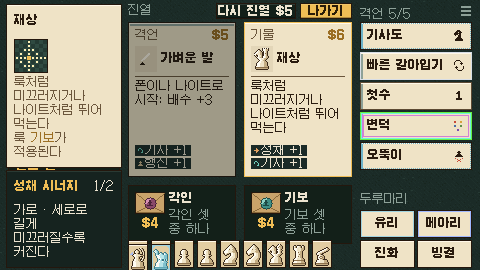
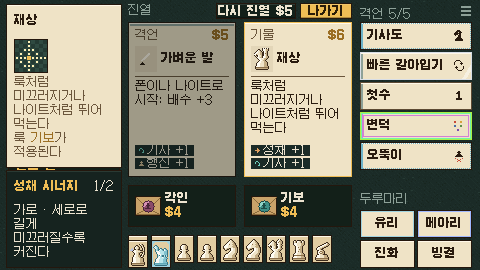
레이아웃 규약에 상점 · 금빛 꾸러미를 맞춘 방법과 남은 보류(카드 넷인 금빛 꾸러미)를 적고 스크린샷을 새로 찍었다 — 사람이 「글만 줄이기」를 골라서
layout.md 8장(줄인 글 · 꾸러미 칸 · 판본 머릿말 · 영어 13개 · 남은 보류와 고를 것 셋), 부품 표(꾸러미 칸 · 시너지 칩 가로 여백). CLAUDE.md 진행 상태에 글 상자 hug와 테스트 279. docs/shots/spacing after-*를 새로 찍고 상점 꾸러미 가리킴 · 금빛 꾸러미(한국어 · 영어)를 더했다.

diff --git a/docs/design-notes/layout.md b/docs/design-notes/layout.md
@@ -65,7 +65,7 @@ x   8 ─ 120 │ 128 ────────────── 352 │ 360 ─
 - 한 줄 칸(격언 칸 · 두루마리 칸 · 도감 칸)은 제목 줄 대신 본문 줄: 28 = 7 + 14 + 7.
 - 한 줄의 카드는 가장 긴 카드의 높이로 맞추고, 칩 줄은 카드 아랫변에 붙인다(칩이 한 줄로 맞는다). 효과 글은 「…」로 자르지 않는다.
 - 이름 한 줄 자리(격언 칸 · 도감 칸 · 왼쪽 칸 정석 이름 · 좁은 두루마리 칸)는 `fitText`(굵게 → 보통 → 「…」). 효과 글은 이 자리에 쓰지 않는다.
-- 토큰이 아닌 칸 크기: 시너지 칩 11(줄 13), 왼쪽 칸 시너지 칩 13(줄 15), 물건 카드 그림 22 × 26, 세로로 잇는 같은 칸 사이 2(`LIST_GAP`), 값 × 배수 칸 22, 손 36.
+- 토큰이 아닌 칸 크기: 시너지 칩 11(줄 13), 왼쪽 칸 시너지 칩 13(줄 15), 물건 카드 그림 22 × 26, 칩 안 가로 여백 3(`CHIP_PAD`), 세로로 잇는 같은 칸 사이 2(`LIST_GAP`), 값 × 배수 칸 22, 손 36.
 
 ## 3. 글자 크기 단계
 글꼴은 Galmuri11 12px 하나(도트라 줄일 수 없다). 단계는 크기(1배 · 2배) × 굵기 × 빛깔로만 나눈다.
@@ -88,8 +88,8 @@ x   8 ─ 120 │ 128 ────────────── 352 │ 360 ─
 | **관 선택 카드** `select.js` | 폭 112, 지금 대국은 금빛(명인은 붉은) 두 겹 테 | 대국 종류(제목 줄) → 묶음 틈 → 목표 · 이기면(이름표 · 수치, 안 들어가면 수치를 다음 줄) → 묶음 틈(가로줄) → 명인(초상 36 옆 이름 → 묶음 안 틈 → 규칙 글) 또는 「건너뛰면」 → 받는 것 → 묶음 틈 → 단추 줄 |
 | **격언 칸** | 폭 112 · 높이 28 · 왼쪽 등급 띠 | 이름 한 줄(아이콘은 오른쪽 여백 안). 효과 · 판본 · 잠듦은 가리키면 왼쪽 칸 설명(잠들면 붉은 줄) |
 | **두루마리 칸** | 한 줄에 하나(두 칸) · 두 칸씩(셋 이상), 높이 28 | 넓은 칸은 그림 + 이름, 좁은 칸은 이름만. 효과는 가리키면 |
-| **꾸러미 칸**(상점) | 폭 108 | 왼쪽 봉투(30 × 22) → 값, 오른쪽 이름 → 묶음 안 틈 → 「무엇 셋 중 하나」 |
-| **시너지 칩** | 높이 11 · 어두운 바탕 · 문양 + 「기사 +1」 | 카드는 아랫변 왼쪽. 왼쪽 칸 시너지 줄은 세로로 한 칸에 하나(「기사 5/6」) |
+| **꾸러미 칸**(상점) | 폭 108(셋이면 72, 봉투 없이) | 왼쪽 봉투(26 × 20), 오른쪽 이름 → 값. 「무엇 셋 중 하나」는 가리키면 |
+| **시너지 칩** | 높이 11(띠 · 왼쪽 칸 줄은 13) · 어두운 바탕 · 안 가로 여백 3(`CHIP_PAD`), 폭은 글에 맞춘다 | 문양 + 「기사 +1」. 카드는 아랫변 왼쪽. 대국 오른쪽 띠는 두 줄까지, 못 놓은 것은 「+N」. 왼쪽 칸 시너지 줄은 세로로 한 칸에 하나(「기사 5/6」) |
 | **단추** `button()` | 주(금빛) · 보조(어두운) · 위험(붉은) 셋. 높이 18/16. 누르면 1px 내려앉는다 | 글 가운데 |
 | **판넬** `panel()` | 어두운 바탕 · 짙은 테 · 윗변 빛 · 아랫변 그늘 | 안 여백 `PAD_BOX` 안에 줄들 |
 | **말풍선** `tooltip` | 카드 빛깔 바탕 · 짙은 테. 판 틀은 폭 116, 판 밖 틀은 폭 176 | 제목(제목 줄, 길면 줄바꿈) → 묶음 틈 → [행마 그림 → 묶음 안 틈] → 줄들 → 묶음 틈 → 칩 줄. 폭이 넉넉하면(150 이상) 그림은 본문 왼쪽 |
@@ -158,19 +158,18 @@ x   8 ─ 120 │ 128 ────────────── 352 │ 360 ─
 - 겹침에서 빼는 것: 다른 상자 위에 **뜨는** 것(말풍선 · 낱말 상자 · 처음 안내 · 먹으면 판넬 · 차림표 · 끄는 격언 칸), 덮개(멈춤 · 설정) 아래 층. 재지 않는 것: 연출(떠오르는 수 · 흘러가는 곱 · 알림 · 뒤집히는 카드).
 - `test/layout.test.js`가 연기 시험이 그리지 않는 내용까지 잰다: 모든 정석 · 1~8관 명인 · 수업 할 일 글 · 기물 · 기보 · 각인 꾸러미와 새기기 미리 보기, 대국 왼쪽 · 오른쪽 칸 쌓기(한국어 · 영어).
 
-어기면 연기 시험이 실패한다(「보류」의 화면은 따로 센다).
+어기면 연기 시험이 실패한다(「보류」의 화면 — 카드가 넷인 금빛 꾸러미 — 는 따로 센다).
 
-## 8. 보류 — 상점 · 금빛 꾸러미
-후보 2(여백 8 · 7, 줄 14 · 18, 틈 3 · 8)로 내용에 맞추면 이 둘은 480 × 270에 다 들어가지 않는다. 글을 줄이거나 가리켰을 때로 옮겨야만 들어가므로 사람이 고를 때까지 두었다(연기 시험 · 스크린샷 도구는 「보류」로 따로 센다). 지금은 주머니 · 격언 칸을 화면 아래에 붙여 두어(위 칸과 겹친다) 판은 이어서 둘 수 있다.
+## 8. 상점 · 금빛 꾸러미 — 글을 줄여 맞췄다(2026-09-28)
+후보 2로 hug하면 상점 · 금빛 꾸러미가 480 × 270에 들어가지 않았다(진열 카드 한국어 최대 170 · 영어 219, 쓸 수 있는 높이 202). 사람이 「글만 줄이기」(조작은 그대로)를 골랐다.
+- **명국 조각 카드 효과는 한 줄**: 「조각 셋이면 전설」(영어 「Three make a legend」). 전설의 효과 · 이야기는 가리키면 왼쪽 칸 설명에.
+- **꾸러미 칸은 이름 · 값만**(봉투 옆 두 줄, 높이 42). 「○○ 셋 중 하나」는 가리키면 왼쪽 칸 설명에. 금빛 꾸러미가 붙어 칸이 셋이면 폭 72에 봉투 없이 이름 → 값.
+- **판본 격언 카드**: 머릿말이 판본 이름(「무지개 격언」, 값 옆에 안 들어가면 「무지개」 — 금빛), 효과 글 끝 줄은 판본 효과만(「배수 ×1.5」). 판본 이름 줄이 따로 없어 한 줄이 준다.
+- **영어 효과 글 13개를 줄였다**(en 사전만, 한국어는 그대로): 대관식 · 끝줄의 꿈 · 외통 사냥꾼 · 킹의 목 · 대국의 기억 · 그림자 읽기 · 퀸 사냥 · 빈 판 · 승급의 길 · 빠른 승급 · 대주교 · 메뚜기 · 유령 행마.
+- 결과: 진열 카드는 한국어 · 영어 모두 ≤ 160(TOP 22 → 카드 → 8 → 꾸러미 42 → 8 → 주머니 28 ≤ 268), 금빛 꾸러미(카드 셋, 폭 108)는 ≤ 156 — `test/layout.test.js`가 모든 물건으로 잰다.
 
-- **상점** 가운데 칸(224 × 246): 위 띠(다시 진열 · 나가기) 아래로 진열 카드 → 꾸러미 칸 → 주머니 한 줄(28). 진열 카드 + 꾸러미 칸에 쓸 수 있는 높이는 268 − 22 − 8 − 8 − 28 = **202**.
-  - 진열 카드(폭 108) 높이: 한국어 가운데 121 · 90% 142 · 가장 긴 것 170(판본 격언), 영어 가운데 138 · 90% 155 · 가장 긴 것 219(명국 조각 「조각 셋이면 전설: …」 8줄 + 종류 두 줄). 꾸러미 칸: 한국어 59, 영어 73~87(「One of three edition maxims」 3줄).
-  - 두 카드 중 긴 쪽 + 꾸러미 칸이 202를 넘으면 넘친다 — 한국어도 자주, 영어는 거의 늘.
-- **금빛 꾸러미**: 카드 셋 → 건너뛰기 · 격언 칸 두 줄(28 × 2)까지 268 안에 들어가려면 카드 ≤ 137. 판본 격언 카드는 한국어 가운데 ≈ 155, 영어 205 안팎. 명국 조각이 붙어 카드가 넷(폭 83)이면 영어 265.
-
-고를 것(권하는 순서, 수치는 명국 조각을 뺀 카드 한 장이 들어가는 몫):
-1. **글을 줄인다**: 진열 · 꾸러미 카드의 명국 조각 효과를 한 줄(「전설의 조각」, 전설 효과는 가리키면)로, 꾸러미 칸의 「셋 중 하나」를 가리키면으로(카드에 효과를 늘 적는 규칙의 예외 둘). 꾸러미 칸이 한 줄(28)이 되어 진열 카드 ≤ 174 — 한국어 100%, 영어 88%.
-2. **주머니를 누를 때만 펼친다**(왼쪽 칸 「주머니」 줄 · 두루마리를 쓸 때 가운데 아래에 펼침): 조작이 바뀐다. 진열 카드 + 꾸러미 칸 ≤ 230 — 한국어 100%, 영어 31%.
-3. **1 + 2 함께**: 진열 카드 ≤ 210 — 한국어 · 영어 100%.
-4. **금빛 꾸러미의 격언 칸은 칸이 찼을 때만**(격언을 고르면 팔 격언을 고르는 차림표): 조작이 바뀐다. 카드 넷(영어 265)은 1과 함께여야 들어간다.
-5. 글 간격을 상점 · 꾸러미에서만 줄이기 — 「이름마다 한 값」을 깬다(권하지 않는다).
+### 보류 — 카드가 넷인 금빛 꾸러미
+명국 조각이 붙어 카드가 넷(폭 83)이면 판본 격언 카드가 한국어 최대 194 · 영어 230으로, 건너뛰기 줄 · 격언 칸 두 줄까지 들어갈 한도 159를 넘는다(판본 격언 177장 중 한국어 72 · 영어 145장). 폭 83에서 글을 더 줄이려면 격언 효과 글 대부분을 바꿔야 해서 멈췄다. 지금은 격언 칸을 화면 안에 붙여 두고(카드와 겹친다) 연기 시험이 「보류(카드 넷인 금빛 꾸러미)」로 따로 센다. 고를 것:
+1. 카드 넷일 때 격언 칸을 한 줄 여섯 칸(폭 55, 이름 「…」)으로 — 한도 189, 한국어 대부분 · 영어 절반쯤.
+2. 명국 조각을 카드 줄 밖(건너뛰기 줄 가운데, 꾸러미 칸 모양)에 — 격언 카드 셋은 폭 108(≤ 156)로 돌아가지만 건너뛰기 줄이 42가 되어 한도 135.
+3. 금빛 꾸러미의 격언 칸은 칸이 찼을 때만(조작이 바뀐다).

diff --git a/CLAUDE.md b/CLAUDE.md
@@ -37,7 +37,7 @@
 
 ## 진행 상태와 다음 단계
 
-끝난 것: 1 규칙 엔진 · 2a 관·상점·격언·기보·각인·명인·목표 곡선 · 2b 도파민 규칙(보고서 `docs/reports/2b.md`, 화면이 받을 이벤트 목록 포함) · 3 화면 · 4 연출과 소리 · 5 판 밖 · 다듬기(밤샘, `docs/reports/night.md`) · 첫 만남(`docs/reports/onboarding.md`: 먹기 전 미리 보기 · 목표 막대 · 첫 수업 넷 · 타이틀 시연 · 퀸 · 킹 다시 그리기 · 사슬 따라가기 연출 · 겹침 · 소개 영상 `docs/media/`, 테스트 190) · 그래픽 손질(`docs/reports/graphics.md`: 새 킹 · 각인 톤 · 기보 단계 모습 · 달빛 타이틀 · 질감 `src/render/texture.js` · 겹침) · 깊이(`docs/reports/depth.md`: 이형 9 · 가족 8 · 정석 13 · 혼 8 · 진화 · 묘수 · 벽 · 보석 · 적 특성 5 · 격언 43, 테스트 257, smart 100판 18.0%) · 친절 손질(`docs/reports/ux.md`: 첫 실행 곧바로 수업 · 수업 열 · 처음 안내 · 카드에 효과 · 재료 그림 · 새기기 미리 보기 · 글 「언제 → 무엇」 · 낱말 풀이 · 영상 `docs/media/first-play.mp4`, 테스트 267) · 레이아웃 통일(`docs/reports/layout.md`: 설명 자리 한 곳 · 판 틀 · 판 밖 틀 · smoke 자리 규칙 · before/after `docs/shots/layout/`, 테스트 270).
+끝난 것: 1 규칙 엔진 · 2a 관·상점·격언·기보·각인·명인·목표 곡선 · 2b 도파민 규칙(보고서 `docs/reports/2b.md`, 화면이 받을 이벤트 목록 포함) · 3 화면 · 4 연출과 소리 · 5 판 밖 · 다듬기(밤샘, `docs/reports/night.md`) · 첫 만남(`docs/reports/onboarding.md`: 먹기 전 미리 보기 · 목표 막대 · 첫 수업 넷 · 타이틀 시연 · 퀸 · 킹 다시 그리기 · 사슬 따라가기 연출 · 겹침 · 소개 영상 `docs/media/`, 테스트 190) · 그래픽 손질(`docs/reports/graphics.md`: 새 킹 · 각인 톤 · 기보 단계 모습 · 달빛 타이틀 · 질감 `src/render/texture.js` · 겹침) · 깊이(`docs/reports/depth.md`: 이형 9 · 가족 8 · 정석 13 · 혼 8 · 진화 · 묘수 · 벽 · 보석 · 적 특성 5 · 격언 43, 테스트 257, smart 100판 18.0%) · 친절 손질(`docs/reports/ux.md`: 첫 실행 곧바로 수업 · 수업 열 · 처음 안내 · 카드에 효과 · 재료 그림 · 새기기 미리 보기 · 글 「언제 → 무엇」 · 낱말 풀이 · 영상 `docs/media/first-play.mp4`, 테스트 267) · 레이아웃 통일(`docs/reports/layout.md`: 설명 자리 한 곳 · 판 틀 · 판 밖 틀 · smoke 자리 규칙 · before/after `docs/shots/layout/`, 테스트 270) · 글 상자 hug(`docs/design-notes/layout.md` 「격자와 여백」: 토큰 8 · 7 · 14 · 18 · 3 · 8, smoke 「글 넘침」, before/after `docs/shots/spacing/`, 테스트 279).
 
 알아 둘 것:
 - 판 봇은 돈에 아주 민감하다: 공짜 보상을 얹을 때마다 승률이 크게 뛰었다. 새 보상은 하네스로 재고 넣는다.
